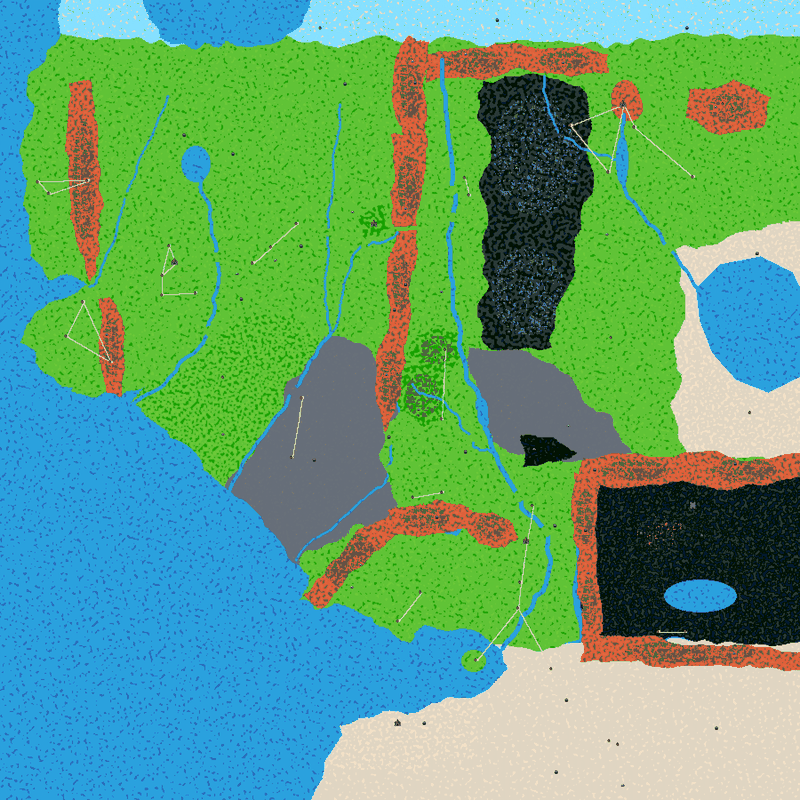
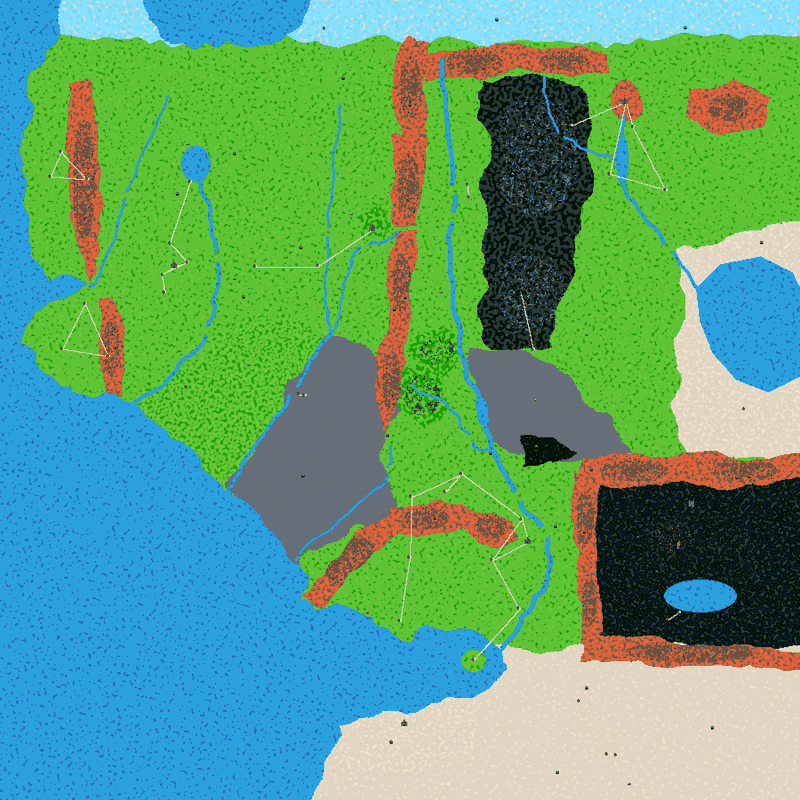
Phase 2a: notes, DEVELOPMENT.md biome map bullet, final world map image
Claude-Session: https://claude.ai/code/session_01TZHjU9LaqwK1rFqmEGrmAq

Changed region(s): [[0.0, 0.0, 1.0, 1.0], [0.875, 0.3125, 1.0, 0.4688]]

diff --git a/docs/MiddleEarth/notes/phase2a-biome-map.md b/docs/MiddleEarth/notes/phase2a-biome-map.md
@@ -1,0 +1,83 @@
+# Phase 2a: fixed world layout from a biome map
+
+Branch `worktree-agent-a68a405d77ee953f3`. The Middle-earth world layout is now fixed. Every tile's biome comes from `MiddleEarth/world/biome_map.png` (900×900, one pixel per tile). That image is generated from polygons, rivers and lakes in `tools/middleearth/biomemap/make_biome_map.py`. Random generation is still the default for every plane that doesn't set `biomeMap`.
+
+| Biome map (labelled preview) | Generated world (`exportMap`) |
+| --- | --- |
+| ![biome map](../img/biomemap-phase2a.png) | ![world](../img/worldmap-phase2a.png) |
+
+Brandywine Bridge in the overworld (the river with its ford gap, and the transition tiles between biomes):
+
+![Brandywine Bridge](../img/overworld-phase2a-brandywine.png)
+
+## Design
+
+- **Engine (opt-in):** a new `WorldData.biomeMap` field. When it is set, `World.generateNew` takes each tile's biome membership from the image instead of from noise, start points and radius. Everything downstream is unchanged and reads the same `biomeMap` bit masks: terrain variants, WFC structures, POI placement, roads, the minimap, map sprites and enemy spawns.
+- **Colour → biome:** an exact RGB match against each biome's existing `color` field. A colour that matches no biome falls back to the first biome (`base.json`, the ocean). All 44 biome colours are now unique (`BIOME_COLORS` in the script).
+- **Water:** the sea, lakes and rivers all use the ocean biome (`Base` water tiles, collision). No dedicated water biome is needed: rivers 2–4 tiles wide render cleanly with the autotile edges (see the screenshot above).
+- **Bounding boxes:** the engine still anchors WFC structures and POI placement on a biome's `startPointX/Y` and `width/height`. The script writes each biome's **pixel bounding box** into those fields, so structures cover the biome's real extent, and POI offsets are computed against that box.
+- **Fords and passes:** roads already cross water (a road tile clears collision and is drawn over the water), and the hidden POI-to-town paths also clear collision. On top of that, the map leaves land gaps at the named crossings: Brandywine Bridge, Sarn Ford, Fords of Isen, Osgiliath, Cair Andros, the Carrock ford, the Old Ford, Tharbad, the Last Bridge, the Ford of Bruinen, Entwade, the Elvenking's bridge, a Celduin ford and a Lhûn ford. The High Pass is a land strip through the Misty Mountains. The Gap of Rohan is open by layout.
+
+## Engine change (for PLAN.md → "Engine changes")
+
+| Change | Files | Why |
+| --- | --- | --- |
+| Opt-in fixed biome layout. When `world.json` sets `"biomeMap": "<image>"`, `World.generateNew` paints biomes from the image. The new helper `World.loadFixedBiomeMap()` builds one bit mask per tile: the tile's own biome (exact RGB match on the biome `color`, otherwise biome 0); biome 0, which underlies everything as in random generation; and every lower-index biome within 2 tiles, so that borders draw as transitions over the neighbouring biome rather than over water. Image row 0 is north, and the image is sampled nearest-neighbour if its size differs from the world. In the biome loop, the only branch is `inBiome = mask bit set` instead of the noise/distance test (the noise is not evaluated). Unset means the old code path, unchanged. | `forge-gui-mobile/.../data/WorldData.java` (field `biomeMap`), `forge-gui-mobile/.../world/World.java` (`loadFixedBiomeMap`, one branch in `generateNew`) | Phase 2a fixed layout with rivers and inland seas. |
+| `BiomeStructure.initialize` fixes: (1) the height loop used `targetWidth` as its bound (PLAN engine bug 1, an infinite loop for biomes wider than tall); (2) the new `chunkSize()` never leaves a last WFC chunk smaller than `N`, because `OverlappingModel.graphics` threw `ArrayIndexOutOfBounds` on 1-pixel chunks, the thread died, and `generateNew` then **waited forever** for that structure; (3) `dataMap` is pre-filled with -1, and a chunk whose WFC fails stays empty (`continue`) instead of indexing past the array and returning early. For sizes that worked before, the behaviour is identical. | `forge-gui-mobile/.../world/BiomeStructure.java` | Non-square bounding boxes from the biome map triggered (1) and (2). The first smoke run hung in world generation. |
+
+The square-biome workaround from WP3 is no longer needed (PLAN known issue 1 is fixed). Engine bugs 2–4 are untouched. They are harmless with the fixed map: every named POI has an anchor inside its biome, and 0 POIs were dropped over 20 seeds.
+
+## Map as code: `tools/middleearth/biomemap/make_biome_map.py`
+
+```bash
+python3 tools/middleearth/biomemap/make_biome_map.py            # PNG + preview + plane data
+python3 tools/middleearth/biomemap/make_biome_map.py --no-data  # PNG + preview only (try-out)
+```
+
+- Coordinates are world fractions, with x = 0 west and **y = 0 north** (image rows), the same as biome `startPointY`.
+- **Layers**, where later wins: `LANDS` (broad lands first, then regions), `MOUNTAINS`, `PASSES` (land restored), `SEAS` (Belegaer coast with the Gulf of Lhûn, the Bay of Belfalas and Umbar; the Ice Bay of Forochel), `ISLANDS` (Tolfalas), `LAKES` (Evendim, Long Lake, Nen Hithoel, the Sea of Rhûn, the Sea of Nurnen), `RIVERS` (Anduin, Brandywine, Hoarwell, Loudwater, Greyflood, Isen, Entwash, River Running, Forest River, Lhûn, each with a width in tiles) and `FORDS` (land restored). Each region is a named constant.
+- Region and coast edges get a seeded smooth domain warp (lands ±9, mountains ±6, coast ±10 tiles), and rivers get a seeded meander, so the output is reproducible.
+- **`POI_ANCHORS`**: name → (x, y, spread). The script writes `offsetX/offsetY/radiusFactor` into `points_of_interest.json` so that the engine places the POI within `spread` of the anchor, and it checks that the anchor area lies in the POI's biome. It writes `playerStartPosX/Y` from the `Spawn` anchor (the Shire). POIs that aren't listed keep their random placement around the bounding-box centre.
+- **Checks** (`!!` lines, non-zero exit): biomes without pixels, anchors outside their biome, and land not covered by any region (apart from stray coast pixels).
+- **Writes:** `world/biome_map.png`, `.me-test/biome_map_preview.png` (labelled, 2×), biome `color` and boxes (a targeted text replace, so the files keep their formatting; it verifies the top-level fields), the POI anchors, and `world.json` (`biomeMap`, start position).
+
+### How to edit the map
+
+1. Edit the polygons, rivers, fords or anchors in the script. Run it with `--no-data` and look at `.me-test/biome_map_preview.png`.
+2. Run it without `--no-data`. It should report `problems: 0`.
+3. `java -cp $J tools/middleearth/WorldSim.java forge-gui/res/adventure/MiddleEarth 0 .me-test/sim.png 20`: aim for 0 reruns, 0 dropped and 0 unreachable POIs.
+4. `tools/middleearth/check.sh` (the new biomeMap check: the image exists, its size matches, every colour maps to a biome, no biome shares a colour, every biome has pixels).
+5. `DISPLAY_NUM=… tools/middleearth/game.sh smoke`, then look at `.me-test/smoke-worldmap.png`.
+
+## Tools
+
+- **WorldSim** honours `biomeMap` with the same masks as the engine (`loadFixedBiomeMap` replica, image read with ImageIO). It now also reports a stricter reachability: over land and town roads only, without the invisible POI-to-town paths that also cross water.
+- **PlaneCheck** has the biomeMap section described above.
+
+## Test results
+
+| Test | Result |
+| --- | --- |
+| `check.sh` | 0 errors, 2 warnings (unchanged: the upstream map whitespace typos). `biomeMap world/biome_map.png: 900x900, 44 colours, 44/44 biomes painted`. |
+| WorldSim, 20 seeds | 0 reruns, 0 dropped, 0 unreachable POIs (0 also over land and roads only). 97 POIs per world. |
+| Smoke (MiddleEarth) | New game, intro and overworld work. Start in the Shire next to Hobbiton. 0 POI retries, no exceptions (only the usual `forge.preferences` and `releases.atom` noise). |
+| Smoke (Shandalar, random generation) | Unchanged random world, no exceptions. |
+| Overworld spot checks (`teleport to <px> <px>`) | Brandywine Bridge ford, Anduin at Osgiliath, Misty Mountains edge: transitions draw correctly over the neighbouring biome. |
+
+World generation time (`Generating world took`, same machine, other agents running):
+
+| | Runs | Breakdown of the last run |
+| --- | --- | --- |
+| Before (WP3, random) | 2.53 s, 2.83 s | biomes 1.95 s (WFC Mordor 1.4 s), minimap 0.33 s, sprites 0.19 s |
+| After (biome map) | 3.62 s, 2.93 s, 2.83 s | biomes 2.07 s, minimap 0.24 s, sprites 0.20 s |
+
+So the time is about the same, within the run-to-run noise of a shared machine. The first run after a build was the slowest (3.62 s). Mask building is part of "biomes in total" and isn't timed separately. The new map is 73% land (ocean 26.6%).
+
+## Open issues
+
+- **Hand-editing:** the PNG is generated, so edits belong in the script. Painting directly in a paint tool or in Tiled would work for the engine, but the next script run would overwrite it, and the biome boxes and POI offsets wouldn't follow. Possible later step: let the script read an optional hand-painted overlay PNG, or import polygons from a Tiled object layer.
+- **Water collision:** rivers are ocean tiles with collision. The engine's hidden POI-to-town paths clear collision along straight lines, which also crosses rivers and lakes. The player can walk on the water there without seeing a bridge (this already happened at coasts with random generation). Roads look like causeways over water. Proper bridge tiles would need an engine change.
+- **Biome identity in tiles:** many biomes share a tileset (Green for the Shire, Eriador, Rohan, Gondor…), so on the minimap the borders between them are only visible through decoration, structures and enemies. Distinct tilesets per region would be a content task.
+- The proportions follow the LotR general map from memory, squeezed into a square world. Some placements can be argued (Lindon's width, Rhûn's extent, the Harad coast). The Mere of Dead Men, Gilraen, Glanduin, Limlight, Snowbourn and the Carnen are not drawn.
+- WFC structures still use the biome bounding box with the structure's mask, so the dark Mordor ring and the mountain clusters fill the central part of each box, not exactly the polygon. The polygon still clips them.
+- `DEVELOPMENT.md` §4: I replaced the "keep biomes square" bullet with a biome-map bullet. The coordinator may want to reword it.

diff --git a/docs/MiddleEarth/DEVELOPMENT.md b/docs/MiddleEarth/DEVELOPMENT.md
@@ -159,7 +159,8 @@ Read the upstream format docs in `docs/Adventure/` first (`Configure-Planes.md`,
 - **Overrides**: to replace a common file, create the same relative path under `MiddleEarth/`. Common enemies, items and decks stay reachable for anything we don't override, so prefer plane-local copies with ME names.
 - **Enemies**: `world/enemies.json` (plane-local once created). Biomes reference enemies by `getName()`, which is `nameOverride` if set, otherwise `name`. Decks go under `MiddleEarth/decks/...`. Sprites are `.atlas` + `.png` under `sprites/` (see `Create-Enemies.md`).
 - **Biomes**: `world/biomes/*.json`, listed in `world/world.json` → `biomesNames`. `startPointX/Y` and `width/height` are fractions of the world. **Careful, the axes differ:** for biome `startPointY`, Y = 0 is **north** (top). For `world.json` `playerStartPosY` and POI `offsetY`, Y = 0 is **south**. The biome `name` must be unique, and it also selects the town name list (`world/town_names_<biome name>.txt`).
-- **Biome shapes:** keep biomes with `structures` square (`width == height`). The engine's `BiomeStructure` loops forever otherwise (see PLAN backlog). Long ranges are chains of round blobs.
+- **Fixed layout (Phase 2a):** `world.json` → `biomeMap` = `world/biome_map.png` fixes every tile's biome by colour. Don't paint it by hand: edit the polygons in `tools/middleearth/biomemap/make_biome_map.py` and rerun it (it also rewrites biome colours/boxes and POI anchors), then WorldSim and smoke. See [notes/phase2a-biome-map.md](notes/phase2a-biome-map.md). With `biomeMap` set, biome `startPointX/Y` and `width/height` are the biome's bounding box (written by the script) and noise/distance weights are unused.
+- **Biome shapes (random generation):** non-square biomes with `structures` are fine since Phase 2a (the `BiomeStructure` loop bug is fixed).
 - **POIs and towns**: `world/points_of_interest.json` gives the name, type, `map` (`.tmx`), sprite and count. Town names come from `world/town_names_<color>.txt`.
 - **Validating JSON**: always run `check.sh`. The game itself often swallows parse errors (it falls back to defaults or skips entries).
 
